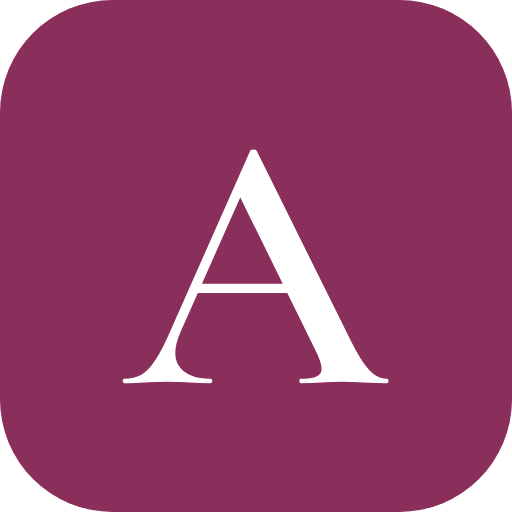
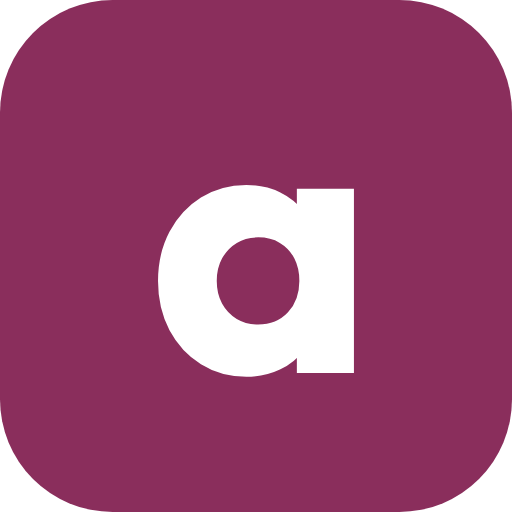
New lowercase wordmark: "aestheva"
The logo is now the word "aestheva" in lowercase, set in Outfit bold in
berry (option A of three), in the style of lowercase UK wordmarks. It
replaces the spaced serif capitals and the "THIRUVANANTHAPURAM" line in
the header, sits in pale pink in the dark footer, and reads
"aestheva for business" on the business portal, its sign-in pages and
its emails. The site icon is a lowercase "a" on berry, and the share
image uses the new wordmark. Cormorant Garamond is no longer loaded.
The name stays "Aestheva" with a capital in running text, and the
footer column is now "Company".

Claude-Session: https://claude.ai/code/session_014ohbCpQ4KEJWrtUvUY8phu

Changed region(s): [[0.2188, 0.2812, 0.75, 0.75]]

diff --git a/src/views/layout.ts b/src/views/layout.ts
@@ -16,9 +16,8 @@ export interface PageOpts {
   jsonLd?: object[];          // schema.org structured data for search engines
 }
 
-// Body and heading fonts, plus the serif only for the letters of the wordmark (a few hundred bytes).
-const FONTS = "https://fonts.googleapis.com/css2?family=Manrope:wght@400;500;600;700&family=Outfit:wght@600;700&display=swap";
-const LOGO_FONT = "https://fonts.googleapis.com/css2?family=Cormorant+Garamond:wght@600&text=AESTHV&display=swap";
+// Body font (Manrope) and the heading and wordmark font (Outfit).
+const FONTS = "https://fonts.googleapis.com/css2?family=Manrope:wght@400;500;600;700&family=Outfit:wght@500;600;700&display=swap";
 /** JSON-LD, with "<" escaped so a name can never close the script tag. */
 const ld = (o: object) => `<script type="application/ld+json">${JSON.stringify(o).replace(/</g, "\\u003c")}</script>`;
 
@@ -55,9 +54,8 @@ ${o.canonical ? `<meta property="og:url" content="${esc(o.canonical)}">` : ""}
 <link rel="manifest" href="/site.webmanifest">
 <link rel="preconnect" href="https://fonts.googleapis.com">
 <link rel="preconnect" href="https://fonts.gstatic.com" crossorigin>
-<link rel="stylesheet" href="${LOGO_FONT}" media="print" onload="this.media='all'">
 <link rel="stylesheet" href="${FONTS}" media="print" onload="this.media='all'">
-<noscript><link rel="stylesheet" href="${LOGO_FONT}"><link rel="stylesheet" href="${FONTS}"></noscript>
+<noscript><link rel="stylesheet" href="${FONTS}"></noscript>
 <link rel="stylesheet" href="/styles.css">
 ${(o.jsonLd ?? []).map(ld).join("\n")}
 ${o.head ?? ""}
@@ -66,7 +64,7 @@ ${o.head ?? ""}
 <a class="skip" href="#main">Skip to content</a>
 ${ribbon}
 <header class="topbar"><div class="topbar-in">
-  <a class="logo" href="${o.app ? "/clinic" : "/"}" style="text-decoration:none">AESTHEVA<small>${esc(o.app ? o.app.label.toUpperCase() : COMPANY.launchCity.toUpperCase())}</small></a>
+  <a class="logo" href="${o.app ? "/clinic" : "/"}" style="text-decoration:none"><span class="wm">aestheva</span>${o.app ? `<span class="logo-sub">${esc(o.app.label)}</span>` : ""}</a>
   ${o.app ? `<div class="topnav">${o.app.right ?? ""}</div>` : `<nav class="topnav" aria-label="Main">
     ${navLink("/search", "explore", "search", "Explore")}
     ${navLink("/about", "story", "leaf", "Our story")}
@@ -78,12 +76,12 @@ ${body}
 </main>
 ${o.app ? `<footer class="footer app-foot"><p>Aestheva for business · Help: <a href="mailto:${esc(COMPANY.supportEmail)}">${esc(COMPANY.supportEmail)}</a></p></footer>` : `<footer class="footer"><div class="footer-in">
   <div class="footer-brand">
-    <div class="serif" style="font-size:24px;letter-spacing:.22em;color:var(--mulberry);font-weight:600">AESTHEVA</div>
+    <div class="logo logo-foot"><span class="wm">aestheva</span></div>
     <p class="mt12">Beauty, wellness and care in ${esc(COMPANY.launchCity)}, booked with the price, the person and the time settled before you arrive.</p>
     <p class="mt12 xs">Made in Kazhakkoottam. Kochi, Kozhikode and Thrissur next.</p>
   </div>
   <nav aria-label="Explore"><h2>Explore</h2><a href="/search">All services</a><a href="/trivandrum">Prices &amp; service guides</a><a href="/search?cat=skin">Skin &amp; facials</a><a href="/search?cat=nails">Nails, lashes &amp; brows</a><a href="/search?cat=groom">Makeup &amp; grooming</a><a href="/search?cat=dental">Smile &amp; dental</a></nav>
-  <nav aria-label="Aestheva"><h2>Aestheva</h2><a href="/about">Our story</a><a href="/for-practitioners">List your business</a><a href="/for-practitioners/apply">Apply to join</a><a href="/contact">Contact</a></nav>
+  <nav aria-label="Company"><h2>Company</h2><a href="/about">Our story</a><a href="/for-practitioners">List your business</a><a href="/for-practitioners/apply">Apply to join</a><a href="/contact">Contact</a></nav>
   <nav aria-label="Policies"><h2>Policies</h2><a href="/policies/cancellation">Cancellation &amp; refunds</a><a href="/policies/terms">Terms of use</a><a href="/policies/privacy">Privacy</a></nav>
 </div>
 <div class="footer-base">

diff --git a/src/views/clinic.ts b/src/views/clinic.ts
@@ -37,7 +37,7 @@ export const signOutButton = (csrf: string, name: string) => `<span class="small
 
 export function clinicLoginPage(error = "", configured = true, notice = "") {
   return `<div class="page narrow" style="max-width:460px;padding-top:56px">
-    <div class="card"><div class="eyebrow">Aestheva for business</div><h1 class="mt8" style="font-size:34px">Sign in</h1>
+    <div class="card"><div class="logo"><span class="wm">aestheva</span><span class="logo-sub">for business</span></div><h1 class="mt8" style="font-size:34px">Sign in</h1>
     <p class="small muted mt8">For salons, studios, clinics and independent professionals listed on Aestheva. Your login comes from the Aestheva team.</p>
     ${notice ? `<div class="form-ok mt12" role="status">${esc(notice)}</div>` : ""}
     ${configured ? `<form method="post" action="/clinic/login" class="col mt16" style="gap:12px">
@@ -64,12 +64,12 @@ export function setPasswordPage(d: { token: string; email: string; venue: string
     </form></div></div>`;
 }
 export function linkInvalidPage() {
-  return `<div class="page narrow" style="max-width:480px;padding-top:56px"><div class="card"><div class="eyebrow">Aestheva for business</div><h1 class="mt8" style="font-size:30px">This link has expired</h1>
+  return `<div class="page narrow" style="max-width:480px;padding-top:56px"><div class="card"><div class="logo"><span class="wm">aestheva</span><span class="logo-sub">for business</span></div><h1 class="mt8" style="font-size:30px">This link has expired</h1>
     <p class="small muted mt8">Set-password links work once, for a limited time. You can ask for a new one below, or ask the Aestheva team to send a fresh invitation.</p>
     <div class="row wrap mt16" style="gap:8px"><a class="btn btn-p btn-s" href="/clinic/forgot">Email me a new link</a><a class="btn btn-o btn-s" href="/clinic/login">Sign in</a></div></div></div>`;
 }
 export function forgotPage(sent = false) {
-  return `<div class="page narrow" style="max-width:460px;padding-top:56px"><div class="card"><div class="eyebrow">Aestheva for business</div><h1 class="mt8" style="font-size:32px">Forgot your password?</h1>
+  return `<div class="page narrow" style="max-width:460px;padding-top:56px"><div class="card"><div class="logo"><span class="wm">aestheva</span><span class="logo-sub">for business</span></div><h1 class="mt8" style="font-size:32px">Forgot your password?</h1>
     ${sent ? `<div class="form-ok mt12" role="status">If that email has a clinic login, we've sent it a link to choose a new password. It works for 1 hour. Check spam if it isn't there in a few minutes.</div><p class="small mt16"><a href="/clinic/login">Back to sign in</a></p>`
     : `<p class="small muted mt8">Enter your login email and we'll send you a link to choose a new password.</p>
       <form method="post" action="/clinic/forgot" class="col mt16" style="gap:12px"><label class="f" for="fe">Email<input class="in" id="fe" name="email" type="email" autocomplete="username" required autofocus></label><button class="btn btn-p" type="submit">Email me a link</button></form>

diff --git a/src/services/clinic.ts b/src/services/clinic.ts
@@ -112,10 +112,10 @@ export async function emailPasswordLink(env: Env, u: { name: string; email: stri
   const until = invite ? `${LINK_HOURS.invite / 24} days` : "1 hour";
   const text = `Hello ${u.name},\n\n${lead}\n\n${invite ? "Set your password" : "Choose a new password"} here (the link works once, for ${until}):\n${url}\n\nYour login email is ${u.email}. After that, sign in at ${new URL(url).origin}/clinic.\n\nAestheva`;
   const html = `<div style="font-family:Arial,sans-serif;font-size:15px;color:#302A2E;line-height:1.55;max-width:520px">
-    <p style="font-size:12px;letter-spacing:.14em;text-transform:uppercase;color:#713F54;font-weight:bold;margin:0">Aestheva for business</p>
-    <h1 style="font-family:Georgia,serif;font-weight:normal;font-size:26px;margin:8px 0 14px">${invite ? `Welcome, ${escH(u.name)}` : "Reset your password"}</h1>
+    <p style="font-family:Arial,sans-serif;font-size:24px;font-weight:bold;letter-spacing:-0.5px;color:#8A2E5C;margin:0">aestheva <span style="font-size:15px;font-weight:normal;letter-spacing:0;color:#857A80">for business</span></p>
+    <h1 style="font-family:Arial,sans-serif;font-weight:bold;font-size:24px;color:#1D1A1C;margin:18px 0 14px">${invite ? `Welcome, ${escH(u.name)}` : "Reset your password"}</h1>
     <p>${escH(lead)}</p>
-    <p style="margin:24px 0"><a href="${escH(url)}" style="background:#713F54;color:#fff;padding:12px 20px;border-radius:999px;text-decoration:none">${invite ? "Set your password" : "Choose a new password"}</a></p>
+    <p style="margin:24px 0"><a href="${escH(url)}" style="background:#8A2E5C;color:#fff;padding:12px 20px;border-radius:999px;text-decoration:none">${invite ? "Set your password" : "Choose a new password"}</a></p>
     <p style="color:#6B5F65;font-size:13px">The link works once, for ${until}. Your login email is <b>${escH(u.email)}</b>.</p>
     <p style="color:#8A7C83;font-size:12px">If the button doesn't work, copy this link into your browser:<br>${escH(url)}</p></div>`;
   return sendEmail(env, u.email, { subject, text, html });

diff --git a/src/services/onboarding.ts b/src/services/onboarding.ts
@@ -287,7 +287,7 @@ const clinicEmails = async (db: D1Database, pid: string) => (await db.prepare("S
 const escH = (s: string) => s.replace(/[&<>"']/g, (c) => ({ "&": "&amp;", "<": "&lt;", ">": "&gt;", '"': "&quot;", "'": "&#39;" })[c]!);
 const mail = (title: string, paras: string[], button?: [string, string]) => ({
   text: `${title}\n\n${paras.join("\n\n")}${button ? `\n\n${button[0]}: ${button[1]}` : ""}\n\nAestheva`,
-  html: `<div style="font-family:Arial,sans-serif;font-size:15px;color:#302A2E;line-height:1.55;max-width:540px"><p style="font-size:12px;letter-spacing:.14em;text-transform:uppercase;color:#713F54;font-weight:bold;margin:0">Aestheva for business</p><h1 style="font-family:Georgia,serif;font-weight:normal;font-size:26px;margin:8px 0 14px">${escH(title)}</h1>${paras.map((p) => `<p style="white-space:pre-wrap">${escH(p)}</p>`).join("")}${button ? `<p style="margin:24px 0"><a href="${escH(button[1])}" style="background:#713F54;color:#fff;padding:12px 20px;border-radius:999px;text-decoration:none">${escH(button[0])}</a></p>` : ""}</div>`,
+  html: `<div style="font-family:Arial,sans-serif;font-size:15px;color:#302A2E;line-height:1.55;max-width:540px"><p style="font-family:Arial,sans-serif;font-size:24px;font-weight:bold;letter-spacing:-0.5px;color:#8A2E5C;margin:0">aestheva <span style="font-size:15px;font-weight:normal;letter-spacing:0;color:#857A80">for business</span></p><h1 style="font-family:Arial,sans-serif;font-weight:bold;font-size:24px;color:#1D1A1C;margin:18px 0 14px">${escH(title)}</h1>${paras.map((p) => `<p style="white-space:pre-wrap">${escH(p)}</p>`).join("")}${button ? `<p style="margin:24px 0"><a href="${escH(button[1])}" style="background:#8A2E5C;color:#fff;padding:12px 20px;border-radius:999px;text-decoration:none">${escH(button[0])}</a></p>` : ""}</div>`,
 });
 
 export async function submitForReview(env: Env, pid: string, user: ClinicUser, siteUrl: string) {

diff --git a/public/styles.css b/public/styles.css
@@ -33,8 +33,10 @@ p{margin:0}
 .ribbon button{background:none;border:1px solid rgba(255,255,255,.3);color:#fff;border-radius:999px;padding:2px 10px;font-size:11.5px}
 .topbar{position:sticky;top:0;z-index:40;background:rgba(255,255,255,.94);backdrop-filter:blur(10px);border-bottom:1px solid var(--line)}
 .topbar-in{max-width:1280px;margin:0 auto;padding:12px 24px;display:flex;align-items:center;gap:20px}
-.logo{font-family:var(--serif);font-size:25px;letter-spacing:.24em;font-weight:600;color:var(--mulberry);background:none;border:0;padding:0;white-space:nowrap}
-.logo small{display:block;font-family:var(--sans);font-size:9.5px;letter-spacing:.28em;color:var(--soft);font-weight:600;margin-top:-2px}
+.logo{font-family:var(--display);font-size:30px;font-weight:700;letter-spacing:-.03em;line-height:1;color:var(--mulberry);background:none;border:0;padding:0;white-space:nowrap;display:inline-flex;align-items:baseline;gap:9px;text-decoration:none}
+.logo-sub{font-size:17px;font-weight:500;letter-spacing:-.01em;color:var(--soft)}
+.footer .logo-foot{color:#F4D7E3;font-size:32px}
+@media (max-width:760px){.logo{font-size:26px}.logo-sub{font-size:15px}}
 .modes{display:flex;background:var(--white);border:1px solid var(--line);border-radius:999px;padding:3px;gap:2px}
 .modes button{border:0;background:none;padding:7px 14px;border-radius:999px;font-size:13px;font-weight:600;color:var(--muted);white-space:nowrap}
 .modes button.on{background:var(--mulberry);color:#fff}
